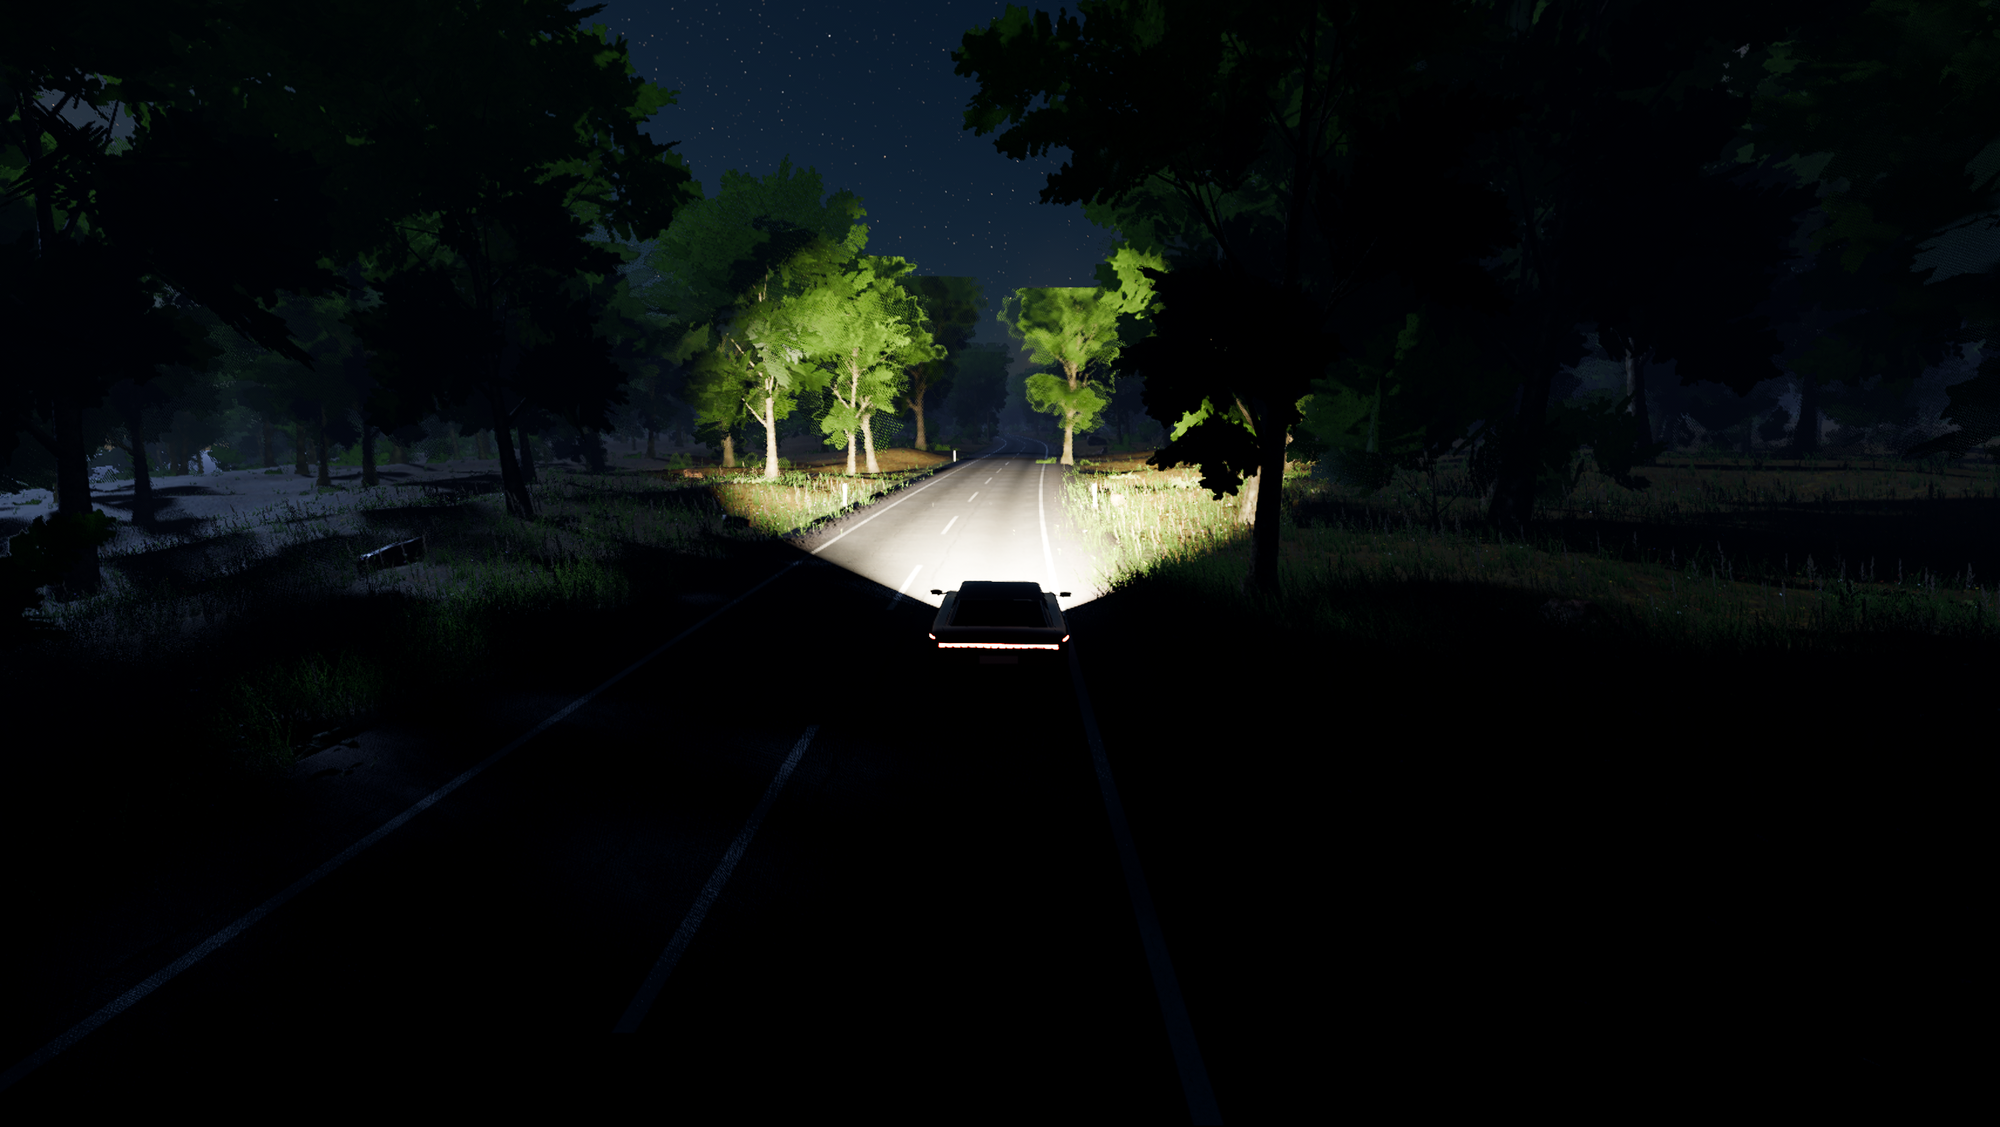
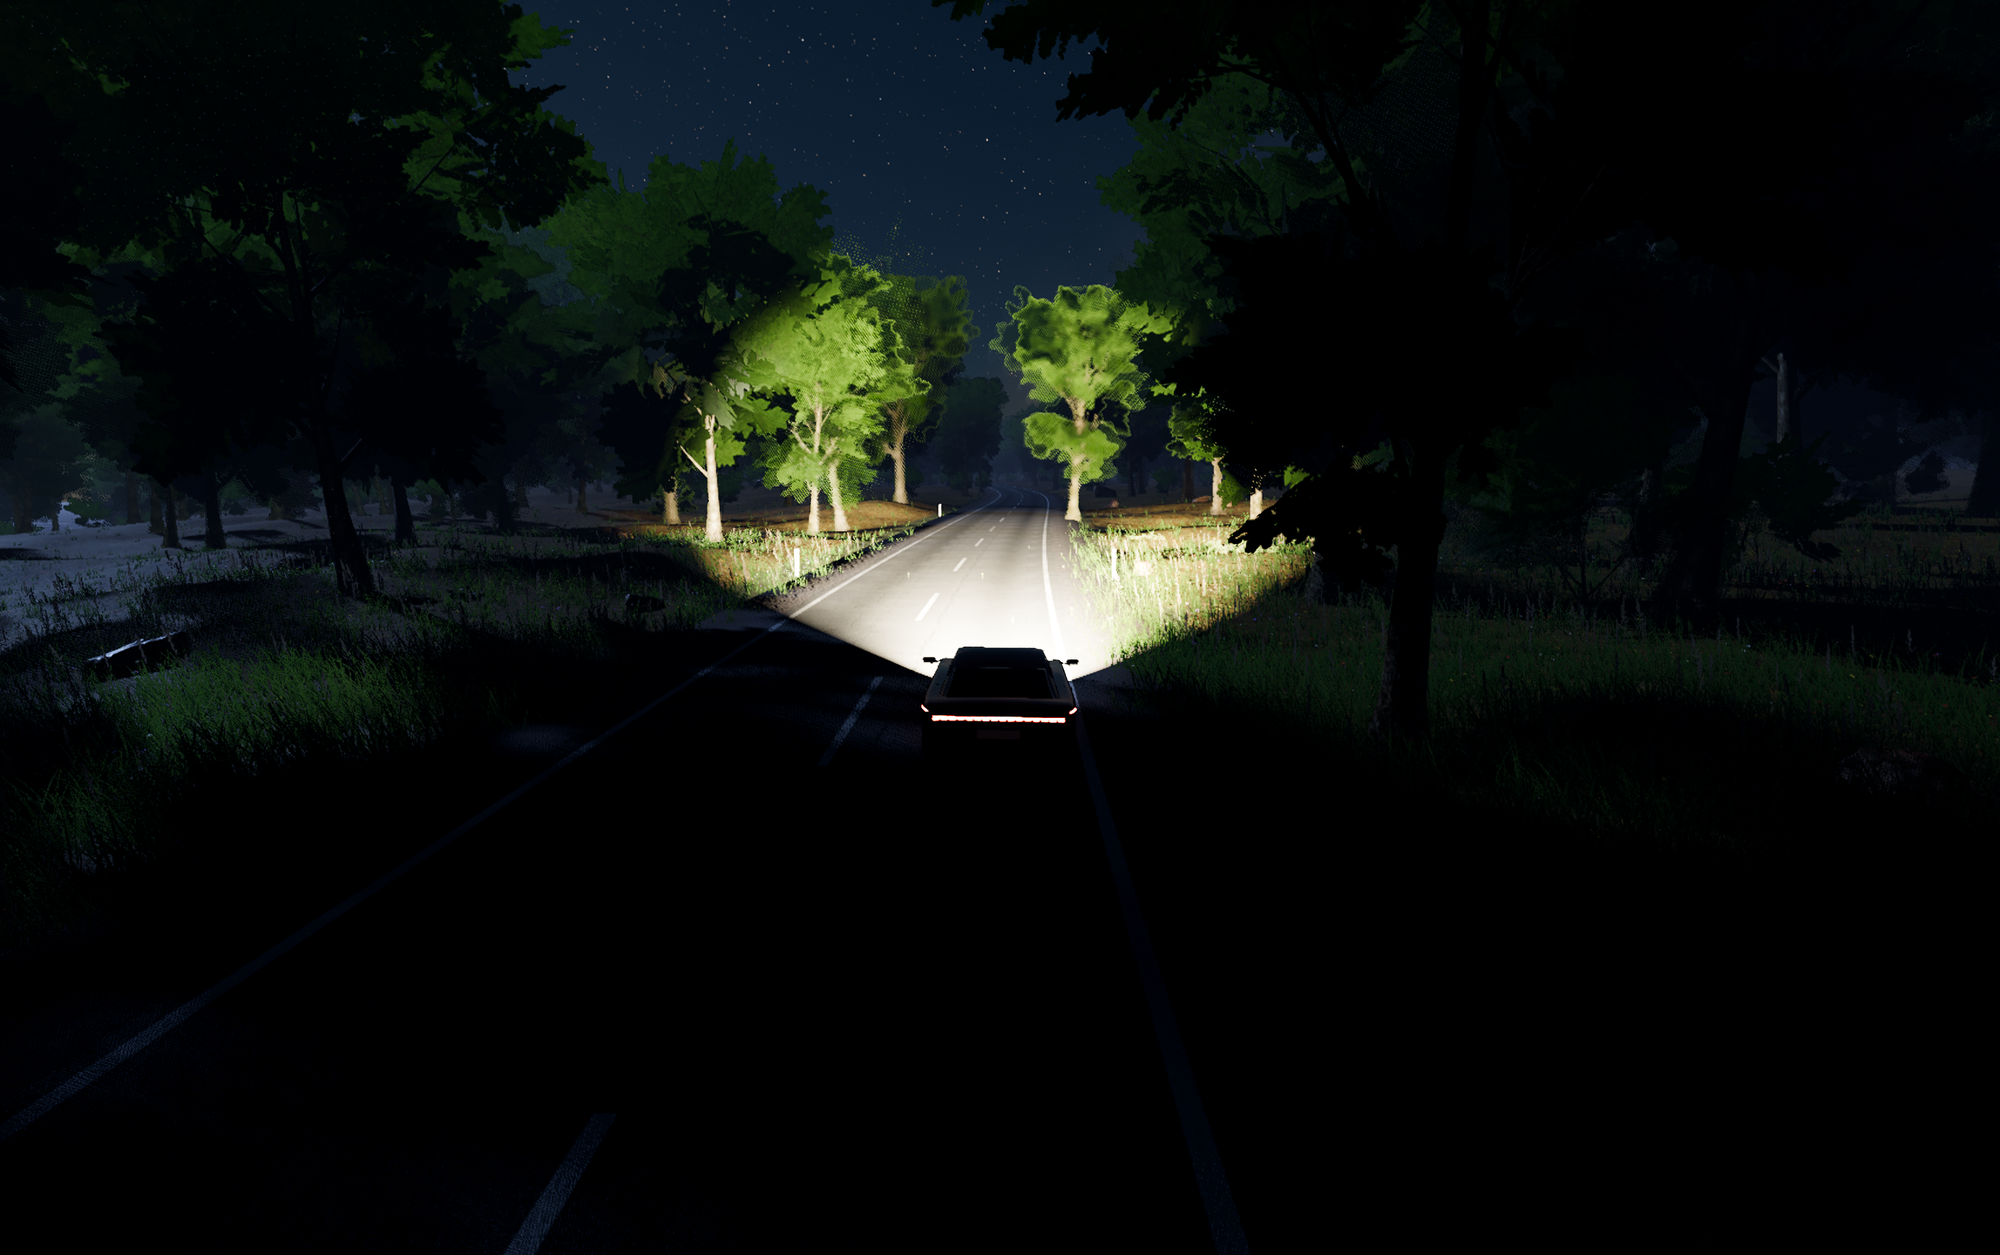
Frame tree impostors from real vertices so crowns keep their tops; discard mip bleed from the row above; notes on preset look and bench conditions; new screenshots

diff --git a/NOTES.md b/NOTES.md
@@ -65,7 +65,7 @@ Pogoda (`Game.weather`): `current_id`, `preset_name()`, `set_preset(id, instant)
 - `grass_field.gd` + `shaders/grass.gdshader` — kafle źdźbeł (3 LOD). Co klatkę lista widocznych kafli idzie do tekstury-tabeli,
   z której vertex shader czyta pozycję po INSTANCE_ID. Bufory MultiMesh się nie zmieniają, więc motion vectors są poprawne.
   `shaders/meadow_decor.gdshader` — kłosy (skan) i kwiaty na tej samej tabeli.
-- `forest.gd`, `tree_gen.gd`, `shaders/tree_*.gdshader` — ~200 tys. drzew i krzewów: LOD0 i LOD1 (siatki, tabela jak w trawie),
+- `forest.gd`, `tree_gen.gd`, `shaders/tree_*.gdshader` — ~170 tys. drzew i krzewów: LOD0 i LOD1 (siatki, tabela jak w trawie),
   impostory od 74 m (8 widoków na wariant, wypiekane przy starcie z tych samych siatek). Cienie: LOD1 do 42 m, bryły do 125 m.
 - `props.gd` — murki, domy, barierki, latarnia, skanowane głazy i pnie (`assets/models/baked`), paprocie przy drodze.
 - `road_builder.gd`, `shaders/road.gdshader`, `rain.gd`.
@@ -89,12 +89,14 @@ Pomiary w oknie 2940×1658, skala 0.58, trasa otwarta / las (ms na klatkę, śre
 - Wysoka (MetalFX Temporal): 21,9 / 25,0 ms, czyli 46 / 40 fps.
 - Średnia (MetalFX Spatial + SMAA): 15,4 / 18,5 ms, czyli 65 / 54 fps.
 - Niska: 12,8 / 16,7 ms, czyli 78 / 60 fps.
+Prawdziwy pełny ekran 2940×1846, las, Wysoka, na baterii: 26,4 ms, czyli 38 fps.
 MetalFX Temporal kosztuje około 6 ms ponad bilinear, TAA z MetalFX Spatial około 3 ms.
 Uwaga: ławka i zrzuty muszą wołać `apply_quality`, inaczej lecą bez MetalFX (bilinear). Nocne „60 fps” z 30.10 było takim błędem.
 Air przy ciągłym obciążeniu zwalnia o kilka ms, między pomiarami trzeba robić przerwy.
 Przy szukaniu kosztów: `--perf_off=trees,grass,clouds,ssr,ssao,glow,shadow,treeshadow,impostors,sharpen`, a ławka w konkretnym
 miejscu: `dev/run.sh 60 -- --bench=6 --mode=chase --uncapped --road_near=3200,0,1600 --time=13 --weather=cumulusy`.
-Pomiary mają sens tylko gdy nic innego nie używa GPU.
+Pomiary mają sens tylko gdy nic innego nie używa GPU: przed ławką `pgrep -x Godot` musi być puste. 30.10 wieczorem wyszło 61 ms, bo obok działała gra z `Horyzont.app`.
+Średnia i Niska nie mają TAA ani SSR: dither liści i LOD widać jako kropki na koronach, a chmury mają smugi. `user://settings.cfg` nadpisuje domyślny preset z `settings.gd`.
 
 ## Lekcje (cd.)
 - Gęstość mgły Godota: ~12× „podręcznikowej” (mnożnik w weather.gd).
@@ -106,6 +108,7 @@ Pomiary mają sens tylko gdy nic innego nie używa GPU.
 - MultiMesh bez ustawionych transformacji ma macierze zerowe: nawet przy własnych pozycjach trzeba wpisać Identity.
 - Przy interpolacji mapy ekosystemu liczy się rozdzielczość: 5 m/texel wynosiło trawę na asfalt, stąd 2,5 m i próg w shaderze.
 - Dwie warstwy przenikania LOD muszą używać przeciwnych końców tego samego szumu, inaczej zostają dziury.
+- Kadr impostora bierz z wierzchołków, nie z nominalnej wysokości: korona wystaje ponad `_height` i traciła czubek. Górne 3,5% komórki shader odrzuca, bo mipy wchodzą tam w pień z rzędu wyżej.
 
 ## Stan / następne kroki (30.10, wieczór)
 - [x] Niebo, chmury (kopuły, półrozdzielczość), cykl dnia, pogoda, deszcz, mgła
